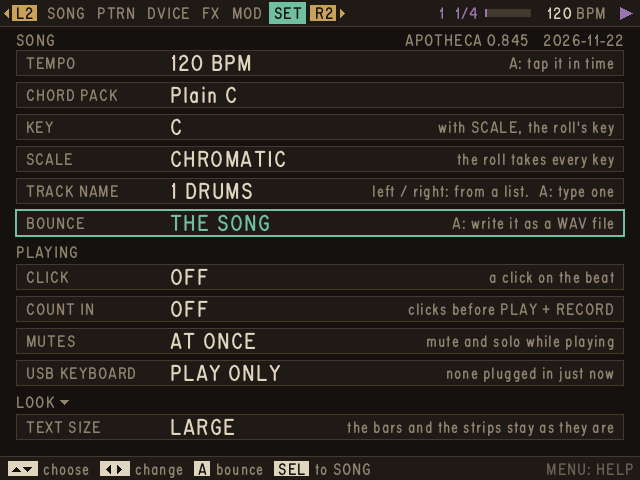
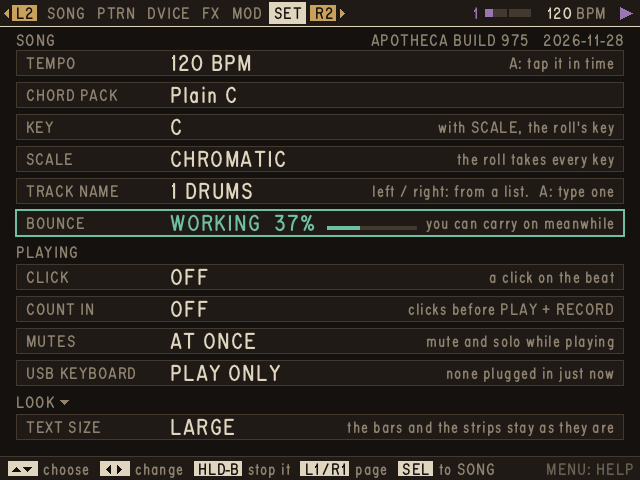
Manual pictures remade from the stills: scripts/manual-shots.sh
All 17 pictures in docs/manual/ come from the desk build's --view stills now
(Brown, LARGE), so they show today's screens: tab colours, the KIT's SOURCE
column, HLD-A hints, the thicker SONG cursor, FX's dials. The script makes its
own recordings (break, snap, pad) for the kit and the sampler.

Two stills fixed to show what the manual says: bars-stop-roll went up one
stop and landed on the roll's new TEMPO stop (now two: BARS), and wifi
pretends files over WiFi on (a still runs no server), so the songs dialog
shows the address. The manual's FX table now says dials, not rows, and the
version reads BUILD 979, not 0.104.

Claude-Session: https://claude.ai/code/session_014Mv6qbu5BCdfvxNNbdbNqL

diff --git a/app/stills.cpp b/app/stills.cpp
@@ -412,7 +412,7 @@ void setUpStill(App& app, const StillOptions& options, Input& input, ControlMap&
         app.session().setCellBars(1, 0, 2);
         app.notes().moveCursorTo(60, 0);
         app.project().bar = 0;
-        tapKey(SDLK_UP);
+        tapKey(SDLK_UP, 2); // tempo, BARS (the roll has had a TEMPO stop since 2026-11-28)
     } else if (std::strcmp(view, "bars-stop-grid") == 0) { // the drums with the cursor on BARS
         app.project().track = 0;
         app.session().view = View::Pattern;
@@ -596,9 +596,11 @@ void setUpStill(App& app, const StillOptions& options, Input& input, ControlMap&
         for (SDL_Keycode key : {SDLK_1, SDLK_2, SDLK_q, SDLK_w}) pushKey(key, true); // all four shoulder buttons
         for (SDL_Keycode key : {SDLK_1, SDLK_2, SDLK_q, SDLK_w}) pushKey(key, false);
     } else if (std::strcmp(view, "wifi") == 0) {
+        // Files over WiFi on, as L1 turns it on (pretended: a still runs no server), on the stock
+        // firmware: its address, :8080 before the number (the manual's picture).
+        app.session().pretendWifi(Wifi::Now(), "192.168.1.23:8080/4821");
         app.session().view = View::Song;
         tapKey(SDLK_BACKSPACE); // SELECT: the list
-        tapKey(SDLK_q);         // L1: files over WiFi
     } else if (std::strcmp(view, "revs") == 0) {
         app.session().view = View::Song;
         tapKey(SDLK_BACKSPACE); // SELECT

diff --git a/docs/dev/stills.md b/docs/dev/stills.md
@@ -6,3 +6,4 @@ Moved here word for word from CLAUDE.md on 2026-11-24 (it had grown to 3,139 lin
 | Job | Command |
 | --- | --- |
 | A still of a screen | `SDL_VIDEODRIVER=offscreen SDL_AUDIODRIVER=dummy ./build/apotheca --demo --view NAME --shot out.bmp` (views are listed in `app/stills.cpp`; the FX screen's are `fx`, `fx-type`, `fx-pick`, `fx-comp`, `fx-switch` (COMP, on its second setting; with `--hold-a` the heading shows the key that switches its TYPE), `fx-master`, `fx-duck`, `fx-choice`, `fx-auto`, `fx-sends`, `fx-bus`, `fx-level`, `fx-ping`, `fx-ping-bus`, `fx-spring` (REVERB SPRING on the track and on SPACE), `fx-plate`, `fx-family-1` to `-7` (the last type of each family, FILTER to LEVEL, in the track's second slot; with `--hold-a` the list of effects on its line, the type lit), `fx-kind-WORD` (the effect whose song-file word is WORD in the track's second slot: `fx-kind-comb`; `fx-kind-comb-1` on its first setting), `fx-deleting` (B held on an effect, its bar filling), `fx-band-notch`, `fx-band-bell`, `fx-band-shelf` (BAND set to a NOTCH at 3 kHz, a BELL +9 dB at 200 Hz, a HIGH SHELF -6 dB from 5 kHz); the list of recordings: `picker` (SAMPLES, on a folder), `picker-in` (in a folder), `picker-deep` (two folders down), `picker-deleting`, `picker-new` (on + NEW FOLDER), `picker-typing` (its name being typed), `picker-carrying` (R1 held, steered onto a folder), `picker-folder-deleting` (B held on an empty folder), `sampler-picker`; the help card: `help` (with SOUND 43%, CPU 37%: pretended, `App::pretendLoad`), `help-load` (its longest line); the sampler: `sampler` (on START), `sampler-sound` (on SOUND, the first stop: its bar), the KIT's SOURCE: `kit-source` (lanes 1 and 4 synths, lane 6 a recording with `--samples`, the rest built in, the cursor on lane 2's SOURCE; `--hold-a` for its held bar), `sampler-end` (on END; both with START 12% and END 80% marked; the demo's last track becomes the sampler, all twelve being used), `sampler-layers` (the first recording with a note and a layer in its name: with `--samples`, a multisample with velocity layers, its ZONES and LAYERS said), `sampler-loop` (S4: the picture under the cursor, LOOP on and LOOP START at 50%, its dashed mark and the heading saying it), `sampler-edit` (S4: the sampler's EDIT view, PITCH and FINE empty boxes), `kit-edit-mono` (STEREO, 2026-11-28: the lane's EDIT view with the cursor on MONO; with `--samples` whose first recording is stereo, else as `kit-edit`), each also with `--hold-a` (on a line of the list that opens the list of effects: `fx-pick --hold-a`, `fx-type --hold-a`, `fx-bus --hold-a`); the piano roll on its TEMPO stop (up from step 1 of bar 1, as the drum grid's `--on-tempo`): `notes-tempo`; the piano roll's strip at its fullest: `notefx-worst`, `notefx-space`; GLIDE FROM, one a type on the same notes: `notefx-from` (TOP), `notefx-from-paired`, `-nearest`, `-random`, each also with `-held` (X held: the strip says it); every length of glide and its line: `notefx-glides`, `-glides-alone`, `-glides-longest-held`, `-glides-far1` to `-far4` (a FULL glide from two bars back, each bar); THE FILL (hold L1 + Y): `fill` (the drum grid just after L1 + Y made the FILL, L1 still held, stopped: the top bar reads 1 DRUMS / FILL, FILL MADE said, the hint Y fill off), `fill-roll` (the same on the piano roll), `fill-eight` (an eight-bar cell: NO FILL ON 8 BARS), `fill-playing` (the drum grid's with the song playing: the top bar has room for the name only); the BOUNCE row at work: `bounce`, `bounce-tail`, and at rest: `bounce-ready`, `bounce-take` (five takes made, TAKE 3 picked again; `--hold-a` for its hints); NEXT SCENE just pressed: `next-scene`, `next-scene-notes`, `next-scene-full`; a song past sixteen scenes (48 made with NEXT SCENE): `scenes` (SONG on scene 48), `scenes-end` (on the AT END row), `scenes-full` (all 64, on the last), `scenes-grid` and `scenes-roll` (scene 48's cells eight bars, SCENE 48: 127 STEPS OF 128 said), `scenes-playing`; chord effects: `chordfx`, `chordfx-held`, `chordfx-ratchet` / `-strum` / `-order` / `-time` / `-level` / `-lengths` (X held, that one picked), `chordfx-off`, `chordfx-arp`, `chordfx-worst` (the strip at its fullest), `chordfx-line`; a track's other instrument offered: `change-instrument`; JAX-EP's panel and pages: `jaxep`, `jaxep0` to `jaxep5`, `jaxep-bank` (MAIN on B7 Distortion Guitar, in BANK B: the longest of the 32 names), `jaxep-held` (a knob, A held); FM-6's: `fm6` (MAIN), `fm6-1` to `fm6-8` (its pages), `fm6-long` (HARPSICH 1, the widest name), `fm6-fixed` (an operator at a FIXED pitch, on FINE), `fm6-off` (an operator OFF); PHYSIC's: `physic` (MAIN), `physic-1` to `physic-5` (SOUND, RING, PLAY, DICE, BODY: on Vibes, PAIR and BUZZ up), `physic-long` (its widest preset name), `physic-string` (RING on Steel: STRETCH reads B), `physic-noise` (SOUND on Hand Drum: HARDNESS reads a NOISE burst's length); a song being deleted: `song-deleting`; the mixer (A held on a head): `song-mixer`, `song-mixer-master`, each also `-12` (twelve tracks); FEEL on the drum grid: `feel` (lanes with their marks, the cursor on a name), `feel-held` (X held: the strip is the lane's feel), `feel-off-held`, `feel-same-held` (every lane at 100%, the strip at its widest), `feel-said` (L1 on a built-in drum with a feel: the message has the row), `slices-name-feel` (the slice view's name with its mark; needs `--samples`); SLICES AT THE HITS: `slices-hits` (a lane's own uneven cuts, AT HITS 10), `slices-hits-name-held` (A held on its name: the strip's SLICES), `slices-hits-y` (Y held on a hit: move, add, delete its cut), `slices-hits-64` (64 cuts, their numbers where there is room; all need `--samples`); X held on a knob, its MOD: `device-mod-held` (an LFO on Phazed's TONE), `device-mod-stepper`, `device-mod-new` (none yet), `device-mod-full` (MODS FULL), `device-mod-deleting` (B held), `fx-mod-held` (an LFO on TAPE's FEEDBACK), `fx-mod-stepper`, `fx-mod-new`, `fx-mod-full`, `fx-sends-mod-held` (on ECHO: the panel in SPACE's row); the brass mark with the song playing: `device-modded`, `fx-modded`; the MOD tab: `mod` (an LFO on TONE, a STEPPER on ECHO; the demo plays, so the dots move), `mod-lfo` (on DEPTH), `mod-steps` (MOD 2's row, on step 5), `mod-depth` (MOD 1's DEPTH lane written, the demo playing), `mod-mixer` (LEVEL and PAN as targets), `mod-target` and `mod-drums` (each with `--hold-a`: the list of targets), `mod-off`, `mod-deleting`, `mod-12`, `mod-free` (a free LFO: SPEED in Hz), `device-mod-free`; any view with `--no-menu` is as on a handheld with no MENU button; `rest-presses`: the drum grid at 100 BPM, SEL + UP eight times pushed from a timer while the passes rest, 108 BPM when every press was read, `textviews` `testPressesInTheRest`) |
+| The manual's pictures | `scripts/manual-shots.sh` remakes all 17 in `docs/manual/` from the desk build's stills (Brown, LARGE; it makes its own recordings for the kit and the sampler); look at each against its paragraph before committing |

diff --git a/docs/manual.md b/docs/manual.md
@@ -333,7 +333,7 @@ A fourth screen, after DEVICE. **Two columns, and everything is in view.**
 | Column | Holds |
 | --- | --- |
 | Left: the list | Eight lines, always there. **THIS TRACK**: its three effects, one after the other, then its **SENDS** (how much of it goes to ECHO, how much to SPACE). **BUSES**: what **ECHO** and **SPACE** hold, one effect each, shared by every track. **MASTER**: the two effects on everything, after the tracks are mixed. |
-| Right: the line picked | Large. A heading (where it is, the effect, its TYPE, what it is doing just now), then each setting as a wide row: its name, its value, a bar. For SENDS: the two sends. |
+| Right: the line picked | Large. A heading (where it is, the effect, its TYPE, what it is doing just now), a picture of what the effect does, then its settings as dials side by side: each its name and its value. For SENDS: the two sends. |
 
 Both columns go down to the hints bar.
 
@@ -535,7 +535,7 @@ before the panic stay up with what was typed.
 ![The SET tab](manual/volume.png)
 
 **Which version this is** shows at the top right of the SET tab (and on the
-help card, the WiFi page, and the first line of `apotheca.log`): `0.104`
+help card, the WiFi page, and the first line of `apotheca.log`): `BUILD 979`
 and the day it was built. The number goes up by one with every build.
 
 The rows stand under five headings: **SONG** (TEMPO, CHORD PACK, KEY, SCALE,
